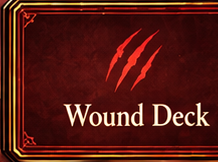
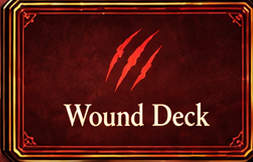
Give the decks a card back, and cut the Wound plate at its full width
The Wound Deck plate was sliced 35 pixels narrower than it is painted, so
it lost its right border and the end of its own caption. It is the same
size as the Exhaust plate beside it; cut to that, it comes out whole. The
Hit plate was fine — what looked cut there was my own inspection crop.

Cards in a Hit, Exhaust or Wound Deck are face down, so those decks now
show the supplied card back standing on the plate painted for them. A deck
with nothing in it shows its plate alone: there is no card there to be face
down, and a back on an empty deck would be a lie about it.

How many cards are in the deck goes across the back's foot rather than
beside it, so a deck takes no more of its plate than one card's width and
the plate's painted caption still reads next to it.

The Layout screen's board preview shows the same thing, so what it previews
is what a match draws.

A UI test walks all six decks and checks each one shows a back exactly when
it holds cards.

1034 assertions.

Claude-Session: https://claude.ai/code/session_01FqpqEYH3RyaCaGf7y5ZbA3

diff --git a/docs/screens/README.md b/docs/screens/README.md
@@ -30,7 +30,7 @@ xvfb-run -a godot --path . --resolution 1440x900 --script tools/ui_drive.gd
 | `23_printed_faces.png` | Three cards drawn from the faces they were supplied as, beside one the game builds |
 | `25_supplied_cards.png` | Every card supplied as a finished face, drawn from that face |
 | `26_frames.png` | The Companion, Equipment and Ta'ahma frames, with a proxy's values on them |
-| `27_board_cards.png` | A match in progress: everything that stands for a card is drawn as one |
+| `27_board_cards.png` | A match in progress: every card drawn as a card, and the decks face down |
 | `28_layout_board.png` | The Layout screen laying out the board, with a bar on every edge a number controls |
 | `29_layout_card.png` | The Layout screen laying out a card, with its slots and stacking order |
 

diff --git a/README.md b/README.md
@@ -119,6 +119,11 @@ Sequence, and your hand. A card in play carries one badge for whatever a player
 most needs at a glance — what its statistics are now, what it is preventing,
 whether it has already acted — and the rest in its tooltip.
 
+Cards in a Hit, Exhaust or Wound Deck are face down, so those decks show the
+card back — `assets/cards/card_back.png` — standing on the plate painted for
+them, with how many are in the deck across its foot. A deck with nothing in it
+shows its plate alone: there is no card there to be face down.
+
 Cards on the table are drawn small enough to fit it, which leaves their rules
 text too small to read, so resting the pointer on one brings the same card up
 at a size meant for reading. It works on everything that stands for a card: a
